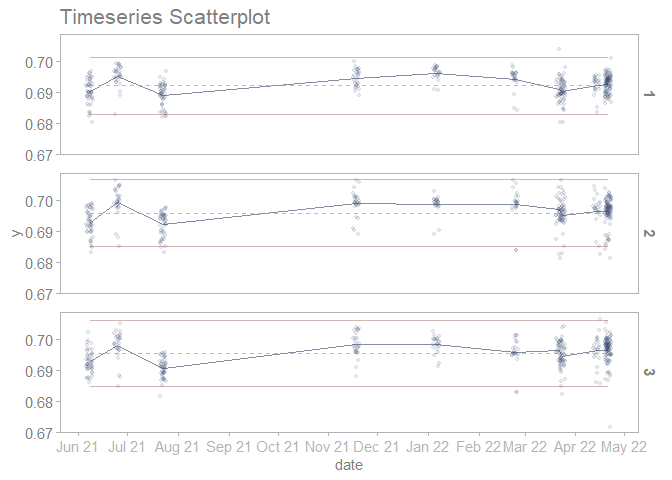
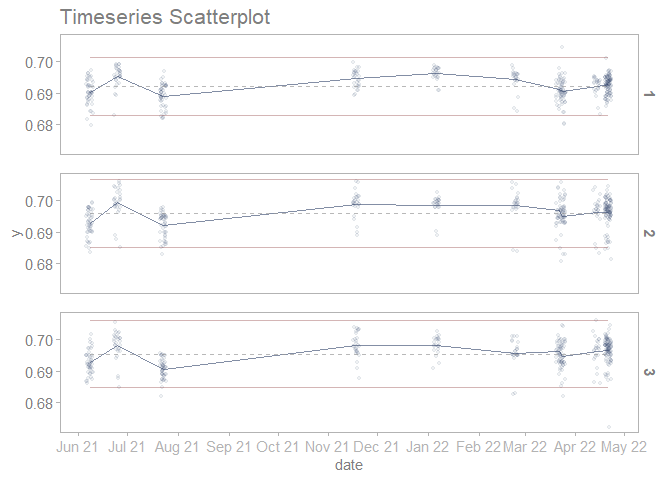
updated alpha

diff --git a/README.md b/README.md
@@ -106,7 +106,7 @@ youden_plot_data %>%
 ``` r
 timeseries_scatterplot_data %>%
   draw_timeseries_scatterplot(y_var = y, grouping_var_1 = date, grouping_var_2 = cavity, faceting = TRUE, 
-                              control_limits = TRUE, alpha = 0.1, interactive = FALSE)
+                              control_limits = TRUE, alpha = 0.07, interactive = FALSE)
 #> Warning: Removed 6 rows containing missing values (geom_point).
 ```
 
